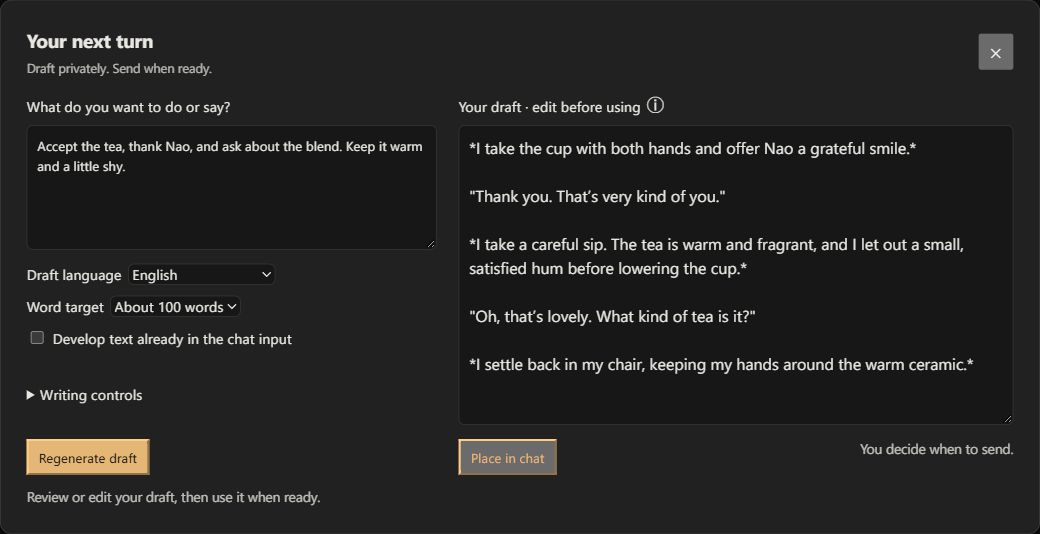
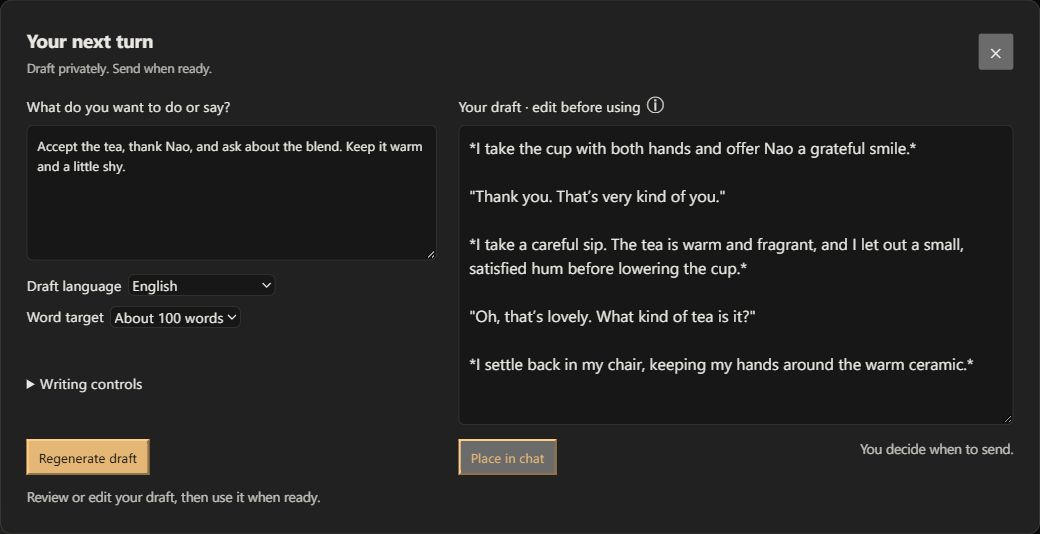
Remove composer development option and keep replacement protection

Changed region(s): [[0.0, 0.5094, 0.2769, 0.6592], [0.0, 0.6891, 0.1538, 0.7491], [0.2462, 0.5094, 0.2769, 0.5393]]

diff --git a/index.js b/index.js
@@ -54,7 +54,6 @@ function initialize() {
             <label for="dr-language">Draft language <select id="dr-language" class="text_pole"><option value="en">English</option><option value="ru-ru">Русский</option><option value="chat">Match conversation</option></select></label>
             <label for="dr-length">Word target <select id="dr-length" class="text_pole"></select></label>
             <label data-dr="custom-words" hidden for="dr-custom-words">Words <input id="dr-custom-words" type="number" min="25" max="1000" step="1" class="text_pole" value="150"></label>
-            <label><input type="checkbox" data-dr="seed"> Develop text already in the chat input</label>
         </div>
         <details class="dr-writing"><summary>Writing controls</summary>
             <div class="dr-options dr-content">
@@ -214,7 +213,6 @@ function initialize() {
         customWords.disabled = busy;
         for (const control of Object.values(controls)) control.disabled = busy;
         updateControlState();
-        find('seed').disabled = busy;
         preview.disabled = busy;
         panel.setAttribute('aria-busy', String(busy));
     }
@@ -272,7 +270,7 @@ function initialize() {
         status('Writing your reply…');
         try {
             const result = await ctx.generateQuietPrompt({
-                quietPrompt: buildPrompt(ctx, direction.value.trim(), options, languages.get(language.value), find('seed').checked ? composer.value : ''),
+                quietPrompt: buildPrompt(ctx, direction.value.trim(), options, languages.get(language.value)),
                 quietToLoud: false,
                 skipWIAN: false,
             });

diff --git a/generation.js b/generation.js
@@ -25,7 +25,7 @@ export function normalizeSettings(saved = {}) {
     return settings;
 }
 
-export function buildPrompt(ctx, direction, options, languageName, seed = '') {
+export function buildPrompt(ctx, direction, options, languageName) {
     const thoughts = {
         off: 'Do not include inner thoughts.',
         requested: 'Include inner thoughts only if the player explicitly asks for them.',
@@ -55,7 +55,6 @@ export function buildPrompt(ctx, direction, options, languageName, seed = '') {
         options.style.trim() ? `ADDITIONAL STYLE INSTRUCTIONS:\n${options.style.trim()}` : '',
         'These controls override prior writing conventions. Keep natural line breaks. Do not fence the entire reply.',
         `PLAYER DIRECTION:\n${direction}`,
-        seed ? `EXISTING PLAYER DRAFT TO DEVELOP:\n${seed}` : '',
         'Do not control other characters. Do not invent player names or placeholders.',
         'Return only the finished RP message: no labels, planning, model reasoning, translated brief, or explanation.',
     ].filter(Boolean).join('\n\n');

diff --git a/docs/development.md b/docs/development.md
@@ -11,7 +11,7 @@ Each draft builds one request-local instruction string. The extension does not r
 
 This does not make a draft an isolated small-context request: World Info and Author's Note remain enabled. Recursive lore activation, long history, model reasoning, output length, and backend prompt-cache reuse can all affect latency. The browser's chat snapshots are local stale-draft checks, not extra text sent to the model. Clearing the backend's KV cache is not injection cleanup and can require more prompt processing.
 
-The context audit reduced a synthetic default brief from 545 to 228 tokens using the development backend's tokenizer with special tokens disabled. These counts exclude the rest of the SillyTavern request and vary by tokenizer, direction, style instructions, and optional composer seed. This is a measured input-size reduction, not a measured end-to-end speedup. Previous generations are not retained in later briefs unless you deliberately put text in the composer and select the seed option.
+The context audit reduced a synthetic default brief from 545 to 228 tokens using the development backend's tokenizer with special tokens disabled. These counts exclude the rest of the SillyTavern request and vary by tokenizer, direction, and style instructions. This is a measured input-size reduction, not a measured end-to-end speedup. Previous draft previews and unsent composer text are not included in the extension's brief.
 
 To inspect brief size without generating a reply, run `npm run audit:prompt`. For a comparison against an earlier commit and exact counts from a compatible tokenizer, use:
 

diff --git a/README.md b/README.md
@@ -45,8 +45,6 @@ See the [step-by-step setup and troubleshooting guide](docs/setup.md) for exact 
 5. Review the draft. Edit it directly or click **Regenerate draft**.
 6. Click **Place in chat**. The draft goes into the normal chat input; send it when ready. Replacing existing input requires a separate confirmation.
 
-Already started writing? Enable **Develop text already in the chat input** to use that text as a starting draft.
-
 ### Give directions in one language, write in another
 
 For example, enter:
